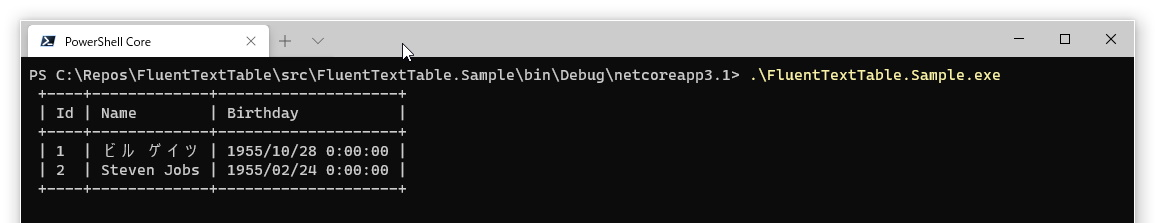
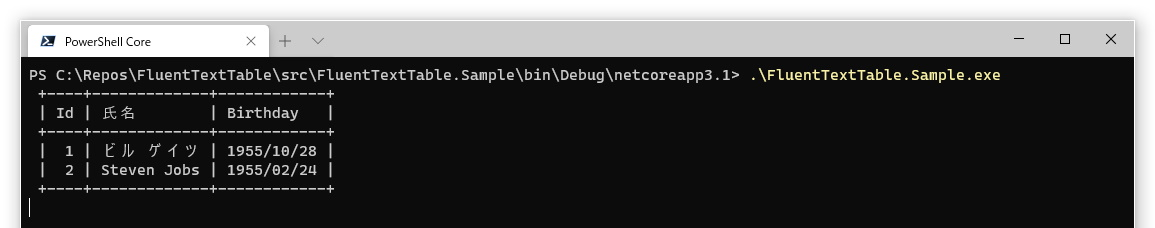
NET Framework 4.0 support.

diff --git a/src/FluentTextTable/ColumnsBuilder.cs b/src/FluentTextTable/ColumnsBuilder.cs
@@ -35,37 +35,45 @@ namespace FluentTextTable
             var memberInfos =
                 typeof(TItem).GetMembers(BindingFlags.Public | BindingFlags.Instance)
                     .Where(x => x.MemberType == MemberTypes.Field || x.MemberType == MemberTypes.Property);
-            var members = new List<(int index, MemberInfo memberInfo, ColumnAttribute columnFormat)>();
+            var members = new List<Member>();
             foreach (var memberInfo in memberInfos)
             {
-                var columnFormat = memberInfo.GetCustomAttribute<ColumnAttribute>();
+                var columnFormat = memberInfo
+                    .GetCustomAttributes(true)
+                    .SingleOrDefault(x => x is ColumnAttribute) as ColumnAttribute;
                 if (columnFormat is null)
                 {
-                    members.Add((0, memberInfo, null));
+                    members.Add(new Member{Index = 0, MemberInfo = memberInfo, ColumnAttribute = null});
                 }
 
                 if (columnFormat != null)
                 {
-                    members.Add((columnFormat.Index, memberInfo, columnFormat));
+                    members.Add(new Member{Index = columnFormat.Index, MemberInfo = memberInfo, ColumnAttribute = columnFormat});
                 }
             }
 
-            foreach (var (_, memberInfo, columnFormat) in members.OrderBy(x => x.index))
+            foreach (var member in members.OrderBy(x => x.Index))
             {
-                var memberAccessor = new MemberAccessor<TItem>(memberInfo);
+                var memberAccessor = new MemberAccessor<TItem>(member.MemberInfo);
                 var column = new ColumnBuilder<TItem>(this, memberAccessor);
                 _columns.Add(column);
 
-                if (columnFormat == null) continue;
+                if (member.ColumnAttribute == null) continue;
 
-                if (columnFormat.Header != null) column.NameAs(columnFormat.Header);
+                if (member.ColumnAttribute.Header != null) column.NameAs(member.ColumnAttribute.Header);
 
                 column
-                    .HorizontalAlignmentAs(columnFormat.HorizontalAlignment)
-                    .VerticalAlignmentAs(columnFormat.VerticalAlignment)
-                    .FormatAs(columnFormat.Format);
+                    .HorizontalAlignmentAs(member.ColumnAttribute.HorizontalAlignment)
+                    .VerticalAlignmentAs(member.ColumnAttribute.VerticalAlignment)
+                    .FormatAs(member.ColumnAttribute.Format);
             }
         }
 
+        private class Member
+        {
+            public int Index { get; set; }
+            public MemberInfo MemberInfo { get; set; }
+            public ColumnAttribute ColumnAttribute { get; set; }
+        }
     }
 }

diff --git a/src/FluentTextTable/TextTableLayout.cs b/src/FluentTextTable/TextTableLayout.cs
@@ -6,8 +6,12 @@ namespace FluentTextTable
     public class TextTableLayout : ITextTableLayout
     {
         private readonly Dictionary<IColumn, int> _columnWidths = new Dictionary<IColumn, int>();
-        
+
+#if NET40
+        internal TextTableLayout(IList<IColumn> columns, IBorders borders, IMargins margins, IPaddings paddings, IRowSet rowSet)
+#else
         internal TextTableLayout(IReadOnlyList<IColumn> columns, IBorders borders, IMargins margins, IPaddings paddings, IRowSet rowSet)
+#endif
         {
             Columns = columns;
             Borders = borders;
@@ -27,7 +31,11 @@ namespace FluentTextTable
         }
 
 
+#if NET40
+        public IList<IColumn> Columns { get; }
+#else
         public IReadOnlyList<IColumn> Columns { get; }
+#endif
         public IBorders Borders { get; }
         public IMargins Margins { get; }
         public IPaddings Paddings { get; }

diff --git a/src/FluentTextTable/TextTable.cs b/src/FluentTextTable/TextTable.cs
@@ -67,12 +67,14 @@ namespace FluentTextTable
         private IRowSet CreateRowSet(IEnumerable<TItem> items) =>
             new RowSet(items.Select(CreateRow).ToList());
         
-        private Row CreateRow(TItem item)
+        private IRow CreateRow(TItem item)
         {
-            return new Row(
-                _header.Columns
-                    .Select(column =>(column, cell:CreateCell(item, (IColumn<TItem>)column)))
-                    .ToDictionary(x => x.column, x => x.cell));
+            var cells = new Dictionary<IColumn, ICell>();
+            foreach (var column in _header.Columns)
+            {
+                cells[column] = CreateCell(item, (IColumn<TItem>) column);
+            }
+            return new Row(cells);
         }
 
         private ICell CreateCell(TItem item, IColumn<TItem> column)

diff --git a/src/FluentTextTable.Sample/Program.cs b/src/FluentTextTable.Sample/Program.cs
@@ -14,13 +14,16 @@ namespace FluentTextTable.Sample
             //Build
             //    .TextTable<User>()
             //    .WriteLine(users);
-            Build
-                .TextTable<User>(builder =>
-                {
-                    builder
-                        .Borders.InsideHorizontal.AsDisable();
-                })
-                .WriteLine(users);
+Build
+    .TextTable<User>(builder =>
+    {
+        builder
+            .Borders.InsideHorizontal.AsDisable()
+            .Columns.Add(x => x.Id).HorizontalAlignmentAs(HorizontalAlignment.Right)
+            .Columns.Add(x => x.Name).NameAs("氏名")
+            .Columns.Add(x => x.Birthday).FormatAs("{0:yyyy/MM/dd}");
+    })
+    .WriteLine(users);
 
             //var table = Build.TextTable<User>(builder =>
             //{

diff --git a/src/FluentTextTable/Row.cs b/src/FluentTextTable/Row.cs
@@ -8,9 +8,17 @@ namespace FluentTextTable
     {
         private readonly int _height;
 
+#if NET40
+        private readonly IDictionary<IColumn, ICell> _cells;
+#else
         private readonly IReadOnlyDictionary<IColumn, ICell> _cells;
+#endif
 
+#if NET40
+        internal Row(IDictionary<IColumn, ICell> cells)
+#else
         internal Row(IReadOnlyDictionary<IColumn, ICell> cells)
+#endif
         {
             _cells = cells;
             _height = _cells.Values.Max(x => x.Height);

diff --git a/src/FluentTextTable/RowSet.cs b/src/FluentTextTable/RowSet.cs
@@ -6,9 +6,17 @@ namespace FluentTextTable
 {
     public class RowSet : IRowSet
     {
+#if NET40
+        private readonly IList<IRow> _rows;
+#else
         private readonly IReadOnlyList<IRow> _rows;
+#endif
 
+#if NET40
+        public RowSet(IList<IRow> rows) => _rows = rows;
+#else
         public RowSet(IReadOnlyList<IRow> rows) => _rows = rows;
+#endif
 
         public int GetMaxCellWidth(IColumn column) =>
             _rows.Any() 

diff --git a/src/FluentTextTable/Header.cs b/src/FluentTextTable/Header.cs
@@ -12,8 +12,12 @@ namespace FluentTextTable
             Columns = columns.ToList();
         }
 
+#if NET40
+        public IList<IColumn> Columns { get; }
+#else
         public IReadOnlyList<IColumn> Columns { get; }
-        
+#endif
+
         public void Write(TextWriter textWriter, ITextTableLayout textTableLayout)
         {
             textTableLayout.Margins.Left.Write(textWriter);

diff --git a/src/FluentTextTable.Test/MarkdownTest.cs b/src/FluentTextTable.Test/MarkdownTest.cs
@@ -32,6 +32,7 @@ namespace FluentTextTable.Test
 ", $"{Environment.NewLine}{text}");
         }
 
+#if NETCOREAPP3_1
         [Fact]
         public void WhenTuple()
         {
@@ -81,6 +82,8 @@ namespace FluentTextTable.Test
 | 123 | Steven Paul Jobs | 1955/02/24 |
 ", $"{Environment.NewLine}{text}");
         }
+
+#endif
 
         [Fact]
         public void WhenAutoFormat()

diff --git a/src/FluentTextTable.Test/PlainTextTest.cs b/src/FluentTextTable.Test/PlainTextTest.cs
@@ -36,6 +36,7 @@ namespace FluentTextTable.Test
 ", $"{Environment.NewLine}{text}");
         }
 
+#if NETCOREAPP3_1
         [Fact]
         public void WhenTuple()
         {
@@ -91,6 +92,7 @@ namespace FluentTextTable.Test
  +----+-------------+------------+
 ", $"{Environment.NewLine}{text}");
         }
+#endif
 
         [Fact]
         public void WhenEmpty()

diff --git a/src/FluentTextTable/ITextTableLayout.cs b/src/FluentTextTable/ITextTableLayout.cs
@@ -7,7 +7,11 @@ namespace FluentTextTable
         IBorders Borders { get; }
         IMargins Margins { get; }
         IPaddings Paddings { get; }
+#if NET40
+        IList<IColumn> Columns { get; }
+#else
         IReadOnlyList<IColumn> Columns { get; }
+#endif
         int GetColumnWidth(IColumn column);
     }
 }

diff --git a/src/FluentTextTable/IHeader.cs b/src/FluentTextTable/IHeader.cs
@@ -5,7 +5,11 @@ namespace FluentTextTable
 {
     public interface IHeader
     {
+#if NET40
+        IList<IColumn> Columns { get; }
+#else
         IReadOnlyList<IColumn> Columns { get; }
+#endif
 
         void Write(TextWriter textWriter, ITextTableLayout textTableLayout);
     }
